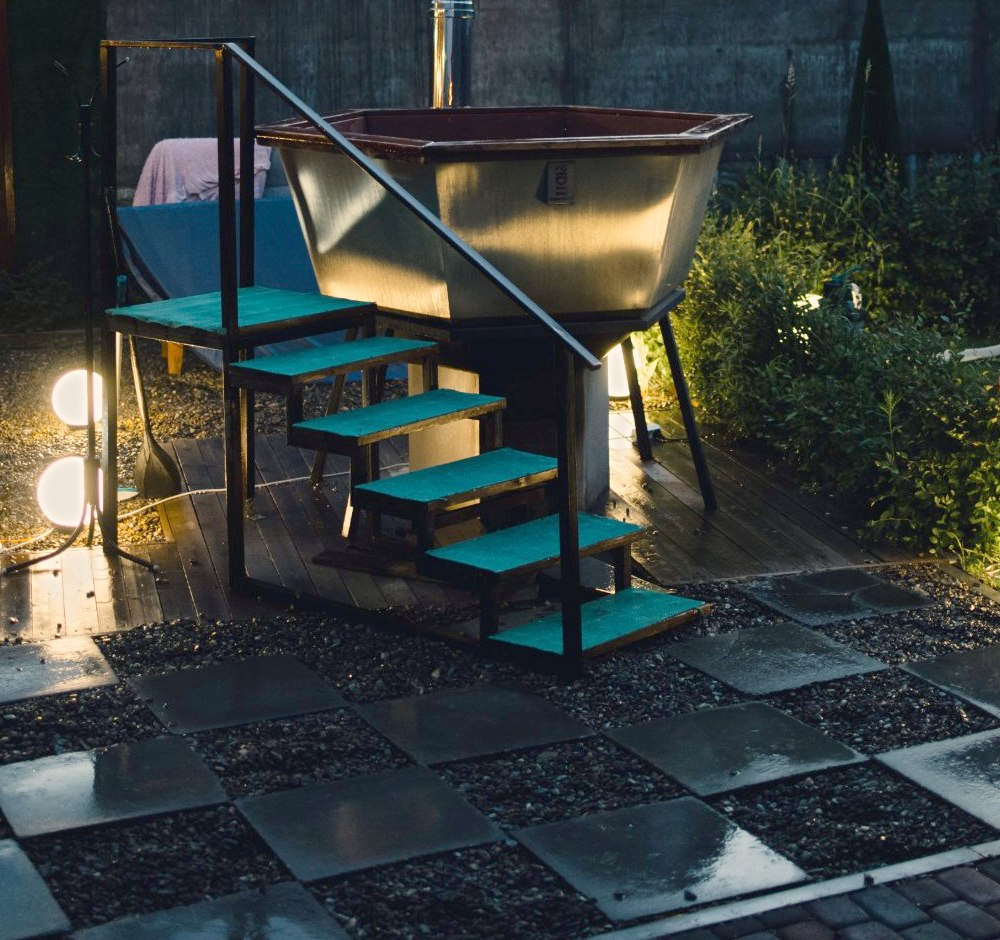
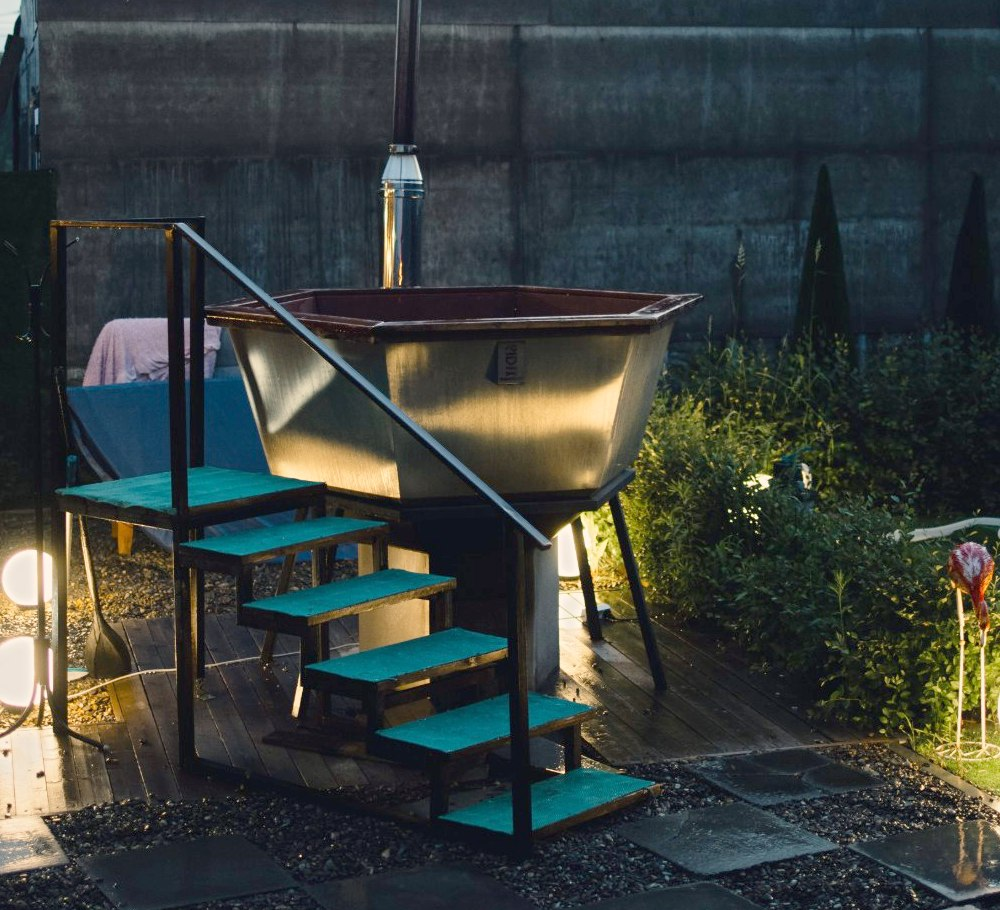
Remove steam card, bath photo, reframe chan photos, new copy, drop cleaning from sheet

diff --git a/index.html b/index.html
@@ -177,7 +177,7 @@ h2{font-size:26px;line-height:1.15;margin:34px 0 14px}
 <div class="pick">Выбрать этот тариф ›</div>
 </div>
 <div class="card tap" style="margin-top:10px" data-t="Компания до 6 человек" data-p="от 15 000 ₽, суббота 18 000 ₽">
-<img class="cardimg" src="p44.jpg" alt="Компания в чане" style="object-position:50% 32%;height:250px">
+<img class="cardimg" src="p44.jpg" alt="Компания в чане" style="object-position:50% 50%;height:250px">
 <div class="lab">Компания до 6 человек</div>
 <div class="price">от 15 000 ₽</div>
 <div class="small">суббота 18 000 ₽</div>
@@ -194,11 +194,10 @@ h2{font-size:26px;line-height:1.15;margin:34px 0 14px}
 </div>
 
 <h2>Ваш вечер у нас</h2>
-<div class="ov"><img src="p36.jpg" alt="Афрейм на закате" style="object-position:50% 30%"><div><em>ЗАЕЗД</em><b>Тёплый афрейм</b><span class="d">Гирлянды по фасаду, олени у крыльца</span></div></div>
-<div class="ov"><img src="p38.jpg" alt="Отдых в бане" style="object-position:50% 60%"><div><em>БАНЯ</em><b>Сибирский кедр</b><span class="d">Кедр, панорамное окно, банные халаты</span></div></div>
-<div class="ov"><img src="p28.jpg" alt="Парение в бане" style="object-position:50% 35%"><div><em>ПАР</em><b>Пар по-сибирски</b><span class="d">Халаты, шапочки и всё, чтобы напариться</span></div></div>
-<div class="ov"><img src="p40.jpg" alt="Чан с подсветкой" style="object-position:50% 25%"><div><em>ЧАН</em><b>Чан на 6 человек</b><span class="d">До 6 человек, вода из источника</span></div></div>
-<div class="ov"><img src="p29.jpg" alt="Территория с подсветкой" style="object-position:50% 70%"><div><em>ТЕРРИТОРИЯ</em><b>Вечер в огнях</b><span class="d">Вся территория освещена, олени светятся</span></div></div>
+<div class="ov"><img src="p36.jpg" alt="Афрейм на закате" style="object-position:50% 30%"><div><em>ЗАЕЗД</em><b>Тёплый афрейм</b><span class="d">Заезд с 15:00, гирлянды и светящиеся олени</span></div></div>
+<div class="ov"><img src="p28.jpg" alt="Баня" style="object-position:50% 35%"><div><em>БАНЯ</em><b>Сибирский кедр</b><span class="d">Кедр, панорамное окно, банные халаты</span></div></div>
+<div class="ov"><img src="p40.jpg" alt="Чан с подсветкой" style="object-position:50% 50%"><div><em>ЧАН</em><b>Чан на 6 человек</b><span class="d">До 6 человек, затопим к вашему приезду</span></div></div>
+<div class="ov"><img src="p29.jpg" alt="Территория с подсветкой" style="object-position:50% 70%"><div><em>ТЕРРИТОРИЯ</em><b>Вечер в огнях</b><span class="d">Свет и гирлянды по всему двору</span></div></div>
 <div class="ov"><img src="p35.jpg" alt="Беседка" style="object-position:50% 60%"><div><em>БЕСЕДКА</em><b>Беседка до 15 человек</b><span class="d">Мягкие диваны, мангал и решётки бесплатно</span></div></div>
 
 <h2>Условия проживания</h2>
@@ -255,8 +254,8 @@ for(var j=0;j<70;j++){var f=document.createElement('div');f.className='flake';va
 <a class="c" href="tel:+79141796645">Позвонить нам</a>
 </div></div>
 <script>
-var D={"Романтика для пары":{p:"от 12 000 ₽, суббота 16 000 ₽",base:12000,sat:16000,l:[["🏡","b1","Весь дом 78 м² только для вас","Три спальни, уютная гостиная"],["🛏","b4","Спальня с кроватью King Size","Мягкая постель и белые банные халаты"],["🍳","b2","Кухонная зона и стол на 6–8 человек","Всё необходимое для застолья"],["🔥","b5","Мангал и решётки бесплатно","Дрова для мангала 500 ₽ за связку"],["🛖","b6","Беседка с мягкими диванами","До 15 человек, территория освещена"],["♨","b3","Баня из сибирского кедра","7 000 ₽, затопка включена"],["🫧","b3","Чан на 6 человек","7 000 ₽, затопка включена"],["🚿","b2","Ванная с душем","Стиральная машина"],["🐾","b5","Можно с питомцами","Без доплаты"],["🧹","b1","Уборка после выезда","Делаем мы"],["🕒","b3","Заезд с 15:00, выезд до 12:00","Раньше или позже по договорённости"]]},
-"Компания до 6 человек":{p:"от 15 000 ₽, суббота 18 000 ₽",base:15000,sat:18000,l:[["🏡","b1","Весь дом 78 м² для компании","До 6 гостей в стоимости"],["🛏","b4","Три спальни","King Size на 1 этаже, диван в гостиной, большое место 2,2×2,2 на 2 этаже"],["🍳","b2","Кухонная зона и стол на 6–8 человек","Всё необходимое для застолья"],["🔥","b5","Мангал и решётки бесплатно","Дрова для мангала 500 ₽ за связку"],["🛖","b6","Беседка с мягкими диванами","До 15 человек, территория освещена"],["♨","b3","Баня из сибирского кедра","7 000 ₽, затопка включена"],["🫧","b3","Чан на 6 человек","7 000 ₽, затопка включена"],["🚿","b2","Ванная с душем","Стиральная машина"],["🐾","b5","Можно с питомцами","Без доплаты"],["🧹","b1","Уборка после выезда","Делаем мы"],["🕒","b3","Заезд с 15:00, выезд до 12:00","Раньше или позже по договорённости"]]}};
+var D={"Романтика для пары":{p:"от 12 000 ₽, суббота 16 000 ₽",base:12000,sat:16000,l:[["🏡","b1","Весь дом 78 м² только для вас","Три спальни, уютная гостиная"],["🛏","b4","Спальня с кроватью King Size","Мягкая постель и белые банные халаты"],["🍳","b2","Кухонная зона и стол на 6–8 человек","Всё необходимое для застолья"],["🔥","b5","Мангал и решётки бесплатно","Дрова для мангала 500 ₽ за связку"],["🛖","b6","Беседка с мягкими диванами","До 15 человек, территория освещена"],["♨","b3","Баня из сибирского кедра","7 000 ₽, затопка включена"],["🫧","b3","Чан на 6 человек","7 000 ₽, затопка включена"],["🚿","b2","Ванная с душем","Стиральная машина"],["🐾","b5","Можно с питомцами","Без доплаты"],["🕒","b3","Заезд с 15:00, выезд до 12:00","Раньше или позже по договорённости"]]},
+"Компания до 6 человек":{p:"от 15 000 ₽, суббота 18 000 ₽",base:15000,sat:18000,l:[["🏡","b1","Весь дом 78 м² для компании","До 6 гостей в стоимости"],["🛏","b4","Три спальни","King Size на 1 этаже, диван в гостиной, большое место 2,2×2,2 на 2 этаже"],["🍳","b2","Кухонная зона и стол на 6–8 человек","Всё необходимое для застолья"],["🔥","b5","Мангал и решётки бесплатно","Дрова для мангала 500 ₽ за связку"],["🛖","b6","Беседка с мягкими диванами","До 15 человек, территория освещена"],["♨","b3","Баня из сибирского кедра","7 000 ₽, затопка включена"],["🫧","b3","Чан на 6 человек","7 000 ₽, затопка включена"],["🚿","b2","Ванная с душем","Стиральная машина"],["🐾","b5","Можно с питомцами","Без доплаты"],["🕒","b3","Заезд с 15:00, выезд до 12:00","Раньше или позже по договорённости"]]}};
 var EX=[["chan","Чан",7000,5," · затопка включена"],["banya","Баня",7000,5," · затопка включена"],["grill","Стол-гриль",1500,5,""],["wood","Дрова для мангала, связка",500,9,""]];
 var S={t:null,n:1,g:2,x:{}};
 function fmt(n){return String(n).replace(/\B(?=(\d{3})+(?!\d))/g,'\u00a0')+' ₽'}
